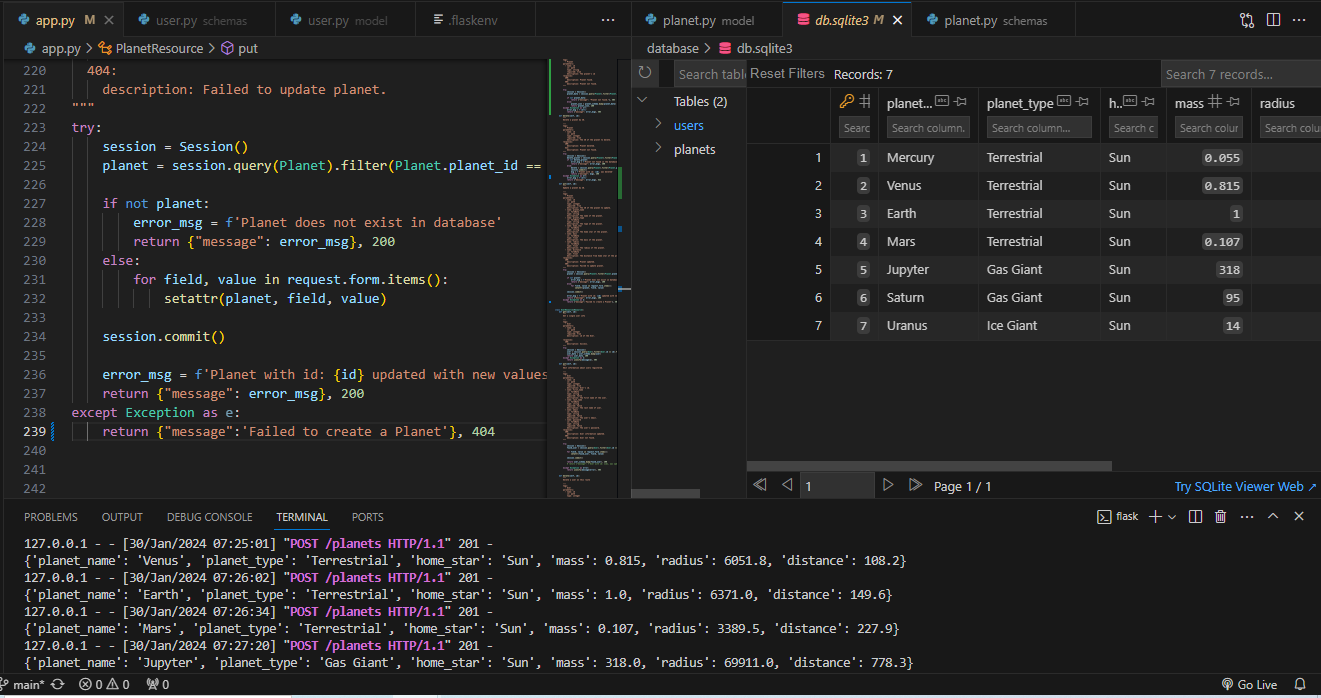
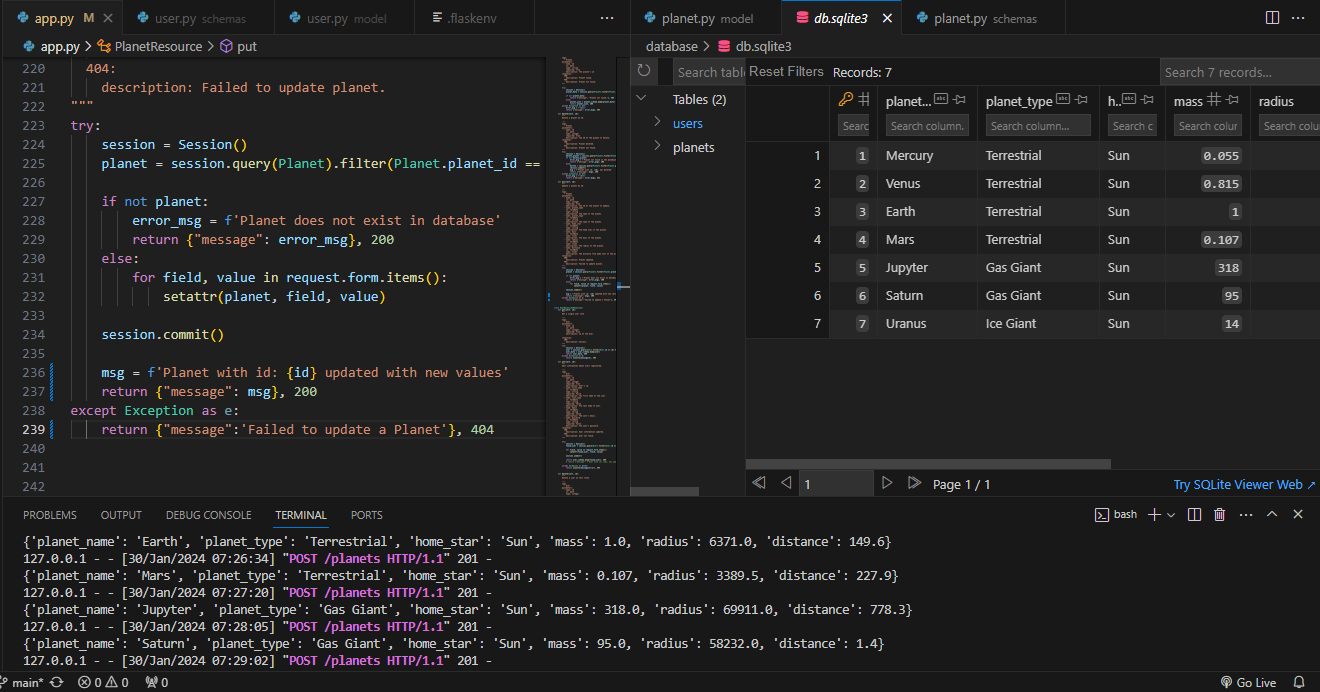
adding image to planets data base

diff --git a/app.py b/app.py
@@ -91,6 +91,10 @@ class PlanetsResource(Resource):
             in: formData
             type: float
             description: The distance from home star of the planet.
+          - name: image
+            in: formData
+            type: string
+            decription: Url string for the planet image
         responses:
           201:
             description: Created.
@@ -214,6 +218,10 @@ class PlanetResource(Resource):
             in: formData
             type: float
             description: The distance from home star of the planet.
+          - name: image
+            in: formData
+            type: string
+            decription: Url string for the planet image
         responses:
           200:
             description: Planet updated.
@@ -233,10 +241,10 @@ class PlanetResource(Resource):
 
             session.commit()
 
-            error_msg = f'Planet with id: {id} updated with new values'
-            return {"message": error_msg}, 200
+            msg = f'Planet with id: {id} updated with new values'
+            return {"message": msg}, 200
         except Exception as e:
-            return {"message":'Failed to create a Planet'}, 404
+            return {"message":'Failed to update a Planet'}, 404
 
 
 

diff --git a/schemas/planet.py b/schemas/planet.py
@@ -8,6 +8,7 @@ class PlanetSchema(Schema):
     mass = fields.Float()
     radius = fields.Float()
     distance = fields.Float()
+    image = fields.String()
 
 planet_schema = PlanetSchema()
 planets_schema = PlanetSchema(many=True)

diff --git a/model/planet.py b/model/planet.py
@@ -11,3 +11,4 @@ class Planet(Base):
     mass = Column(Float)
     radius = Column(Float)
     distance = Column(Float)
+    image = Column(String)
